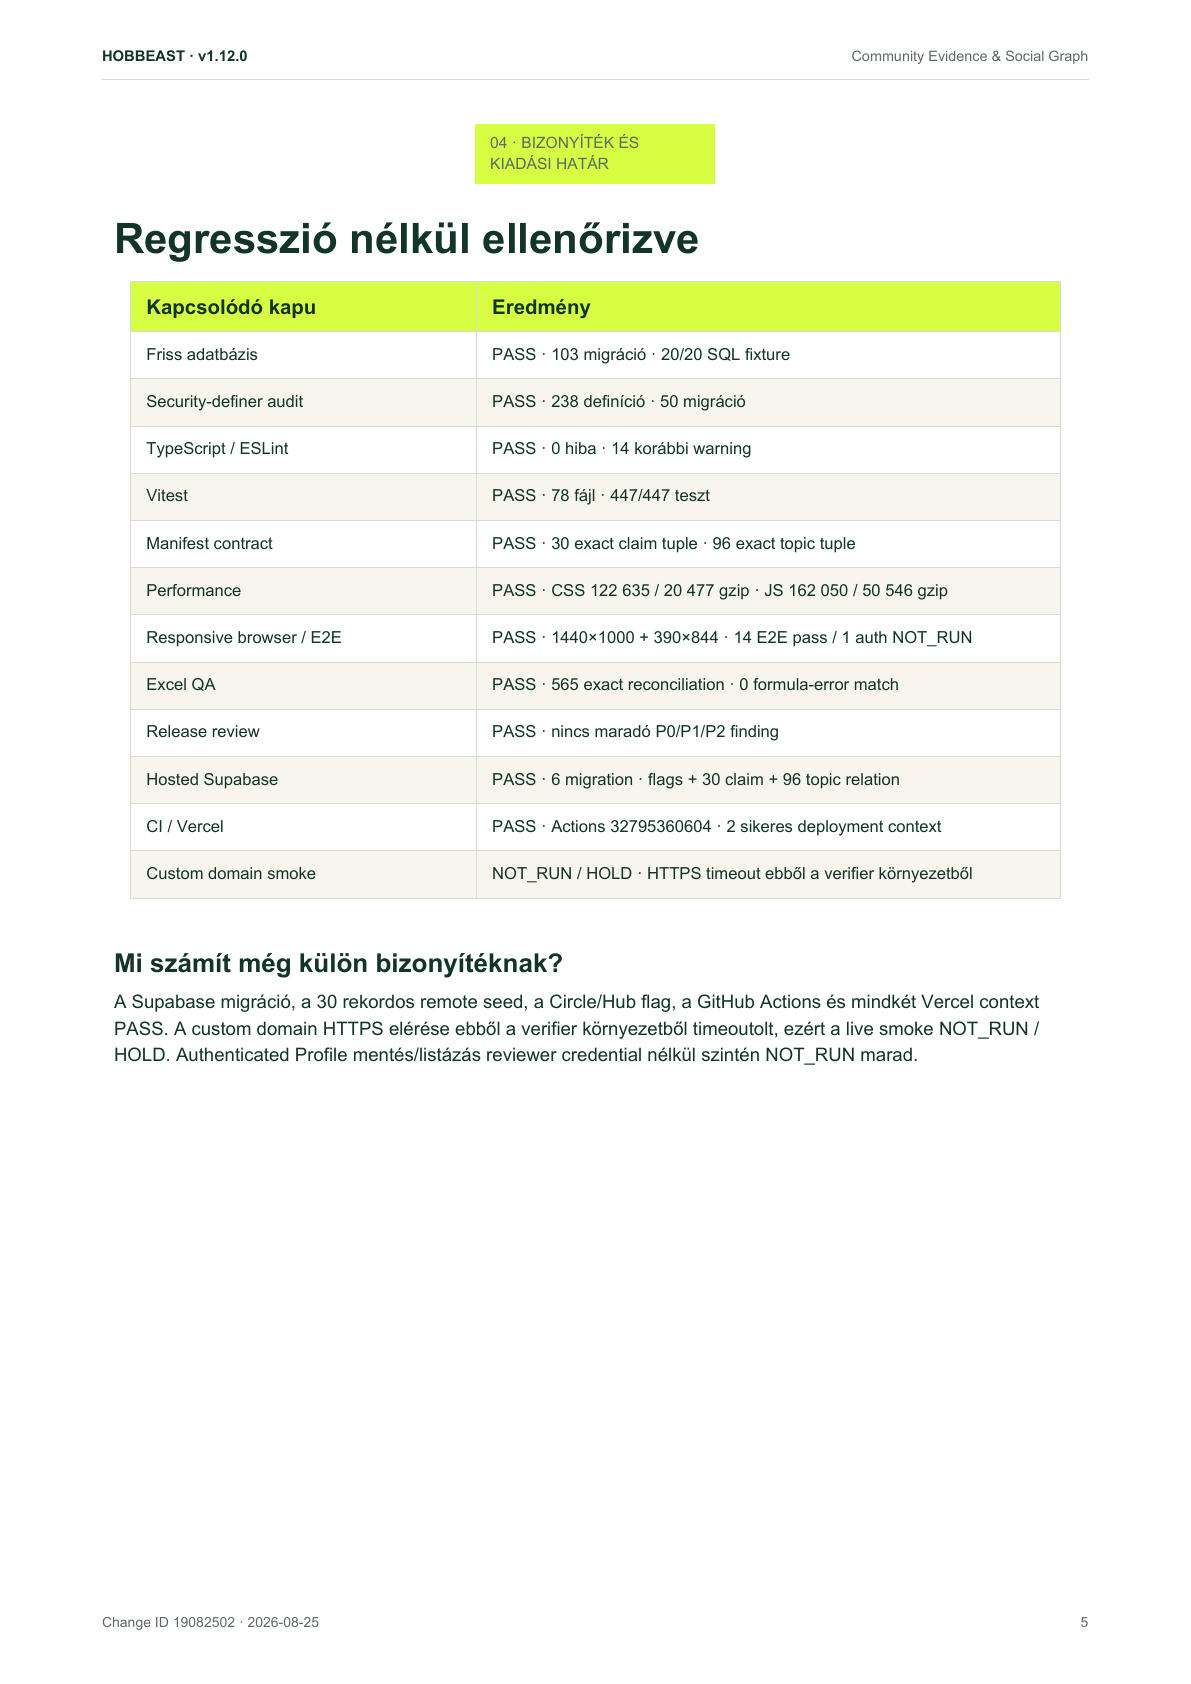
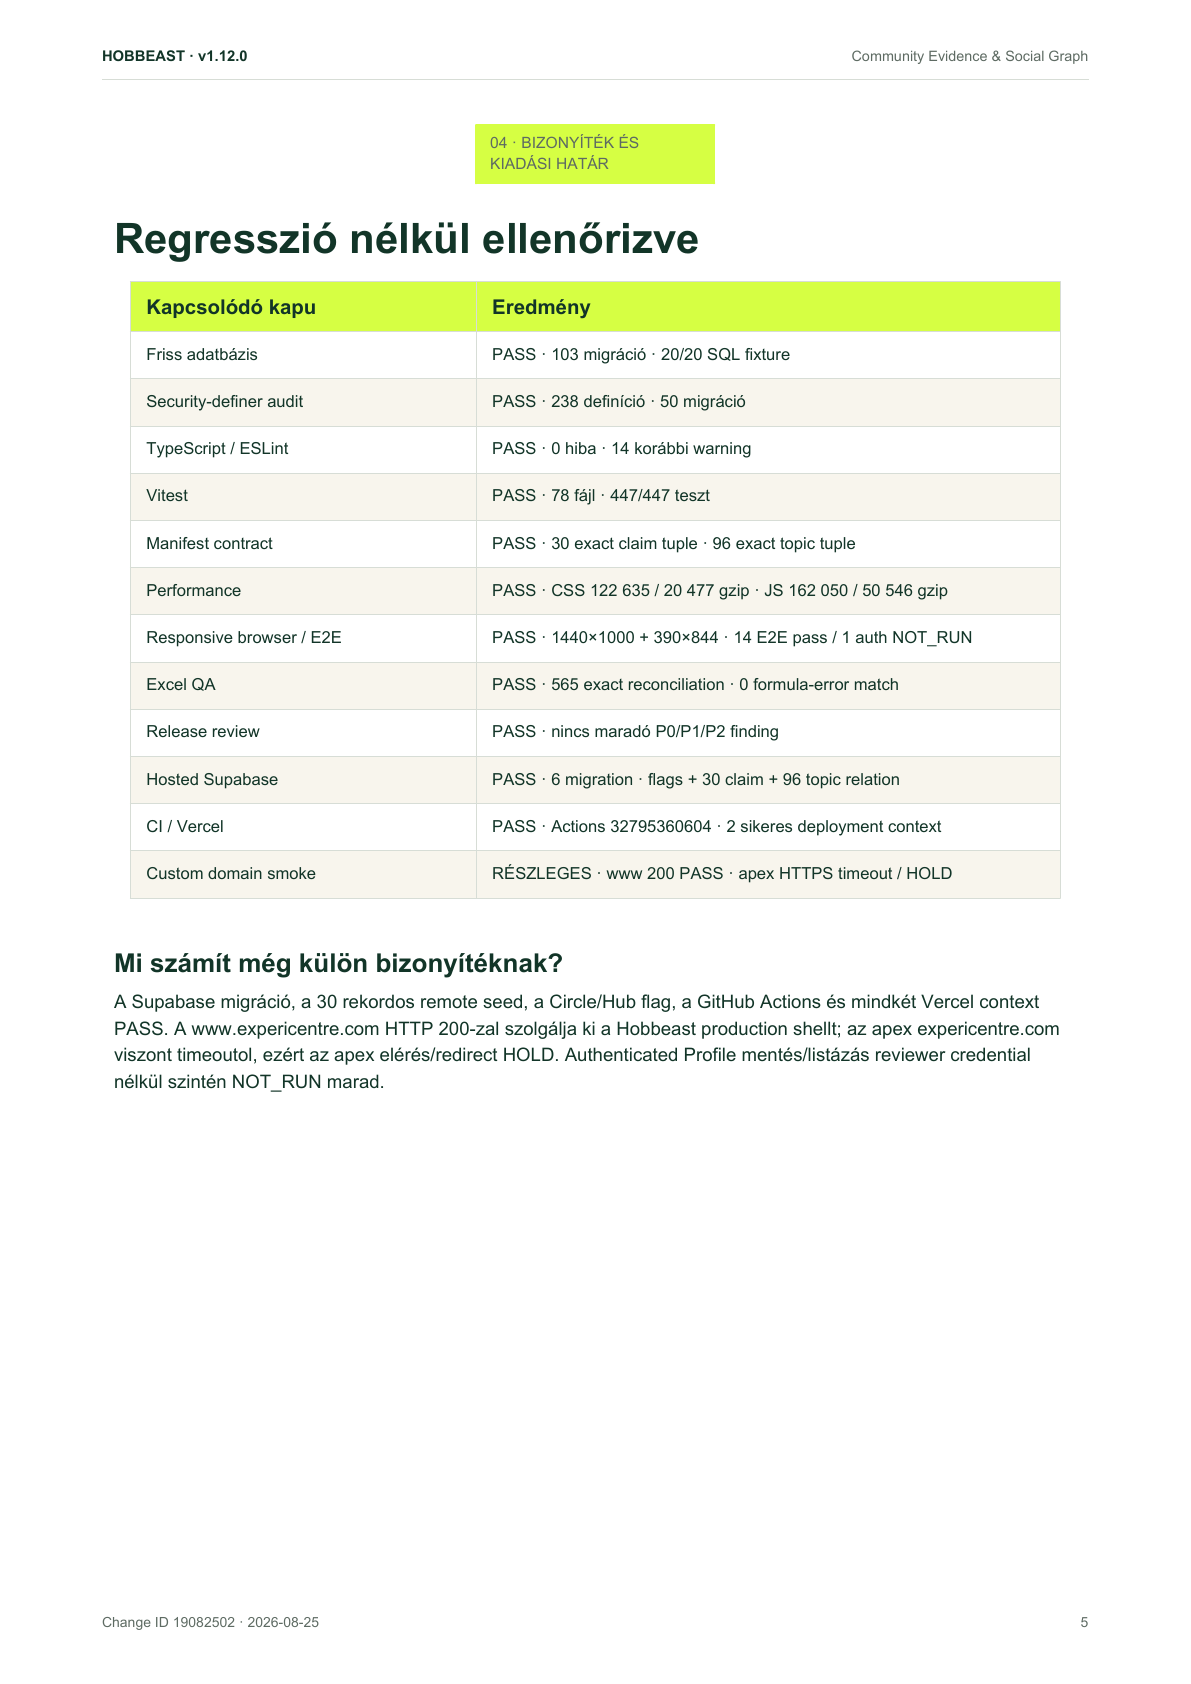
docs(release): record partial custom domain smoke

Changed region(s): [[0.0932, 0.5867, 0.8699, 0.6485], [0.5903, 0.4941, 0.8077, 0.5249], [0.4349, 0.4941, 0.5592, 0.5249]]

diff --git a/.tmp/versioning-19082502/build_business_summary.py b/.tmp/versioning-19082502/build_business_summary.py
@@ -423,7 +423,7 @@ story.extend([
         [p("Release review", "CardBody"), p("PASS · nincs maradó P0/P1/P2 finding", "CardBody")],
         [p("Hosted Supabase", "CardBody"), p("PASS · 6 migration · flags + 30 claim + 96 topic relation", "CardBody")],
         [p("CI / Vercel", "CardBody"), p("PASS · Actions 32795360604 · 2 sikeres deployment context", "CardBody")],
-        [p("Custom domain smoke", "CardBody"), p("NOT_RUN / HOLD · HTTPS timeout ebből a verifier környezetből", "CardBody")],
+        [p("Custom domain smoke", "CardBody"), p("RÉSZLEGES · www 200 PASS · apex HTTPS timeout / HOLD", "CardBody")],
     ], colWidths=[61 * mm, 103 * mm], style=TableStyle([
         ("BACKGROUND", (0, 0), (-1, 0), LIME),
         ("ROWBACKGROUNDS", (0, 1), (-1, -1), [WHITE, CREAM]),
@@ -439,9 +439,10 @@ story.extend([
         p("Mi számít még külön bizonyítéknak?", "H2x"),
         p(
             "A Supabase migráció, a 30 rekordos remote seed, a Circle/Hub flag, a GitHub Actions "
-            "és mindkét Vercel context PASS. A custom domain HTTPS elérése ebből a verifier "
-            "környezetből timeoutolt, ezért a live smoke <b>NOT_RUN / HOLD</b>. Authenticated "
-            "Profile mentés/listázás reviewer credential nélkül szintén <b>NOT_RUN</b> marad.",
+            "és mindkét Vercel context PASS. A www.expericentre.com HTTP 200-zal szolgálja ki a "
+            "Hobbeast production shellt; az apex expericentre.com viszont timeoutol, ezért az apex "
+            "elérés/redirect <b>HOLD</b>. Authenticated Profile mentés/listázás reviewer credential "
+            "nélkül szintén <b>NOT_RUN</b> marad.",
         ),
     ]),
     PageBreak(),

diff --git a/versioning/19082502_v1.12.0_community_evidence_and_social_graph_ai_dev_prompts.md b/versioning/19082502_v1.12.0_community_evidence_and_social_graph_ai_dev_prompts.md
@@ -233,9 +233,9 @@ Before declaring hosted PASS:
   - the public random RPC returns one row for `hu-HU/research_feature`.
 - Hosted access boundary - PASS: neither `anon` nor `authenticated` has direct claim-table
   `SELECT`; `anon` cannot execute the saved-list RPC and `authenticated` can.
-- Direct custom-domain browser/HTTP smoke - `NOT_RUN / HOLD`. `expericentre.com` resolves to the
-  Vercel address, but port 443 timed out from this execution environment. The successful Vercel
-  contexts prove platform deployment, not public custom-domain reachability from this verifier.
+- Direct custom-domain HTTP smoke - partial. `https://www.expericentre.com/` returns `200` and
+  serves the Hobbeast production shell (`PASS`), while apex `https://expericentre.com/` still
+  times out from this execution environment (`HOLD` for apex reachability/redirect).
 - Authenticated Profile save/list smoke - `NOT_RUN`; no reviewer credentials were available.
 
 ## Continuation prompt
@@ -269,7 +269,7 @@ Before declaring hosted PASS:
 
 This artifact proves the listed repository, fresh-database, spreadsheet, component, build,
 performance and local browser evidence, plus the recorded hosted Supabase state, GitHub Actions
-run and two Vercel deployment contexts. Direct public custom-domain reachability remains
-`NOT_RUN / HOLD` because the verifier's HTTPS connection timed out. An authenticated Profile
+run and two Vercel deployment contexts. The `www` production host is reachable with `HTTP 200`;
+the apex domain remains `HOLD` because its HTTPS connection timed out. An authenticated Profile
 save/list flow is also `NOT_RUN` without a credentialed production fixture even when its local
 unit and SQL contracts pass.

diff --git a/CHANGELOG.md b/CHANGELOG.md
@@ -113,11 +113,11 @@ intact.
   approved/published translations, 22 topics, 96 claim-topic relationships and one returned
   public random-RPC row. `anon` and `authenticated` retain no direct claim-table `SELECT`;
   anonymous saved-library execution is false and authenticated execution is true.
-- Direct custom-domain browser/HTTP smoke from this execution environment is `NOT_RUN / HOLD`:
-  `expericentre.com` resolves to the Vercel address but its port 443 connection timed out here.
-  This does not negate the two successful Vercel deployment statuses, but it is not evidence of
-  public custom-domain reachability. The authenticated Profile save/list flow also remains
-  `NOT_RUN` without reviewer credentials.
+- Direct custom-domain HTTP smoke is partial: `https://www.expericentre.com/` returns `200` and
+  serves the Hobbeast production shell, while apex `https://expericentre.com/` still times out
+  from this execution environment. The `www` host is `PASS`; apex reachability/redirect remains
+  `HOLD`. The authenticated Profile save/list flow also remains `NOT_RUN` without reviewer
+  credentials.
 
 ---
 
